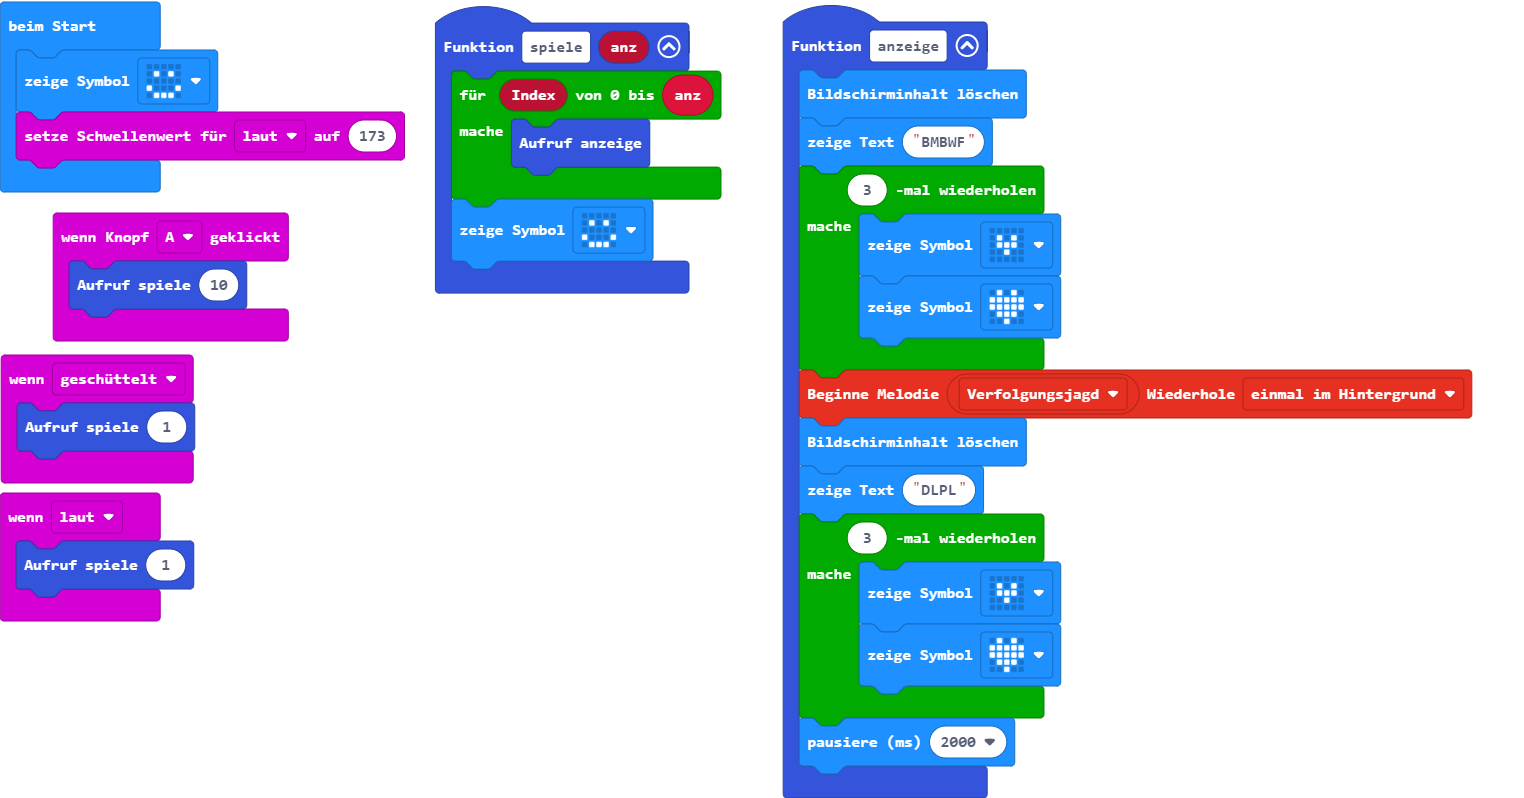
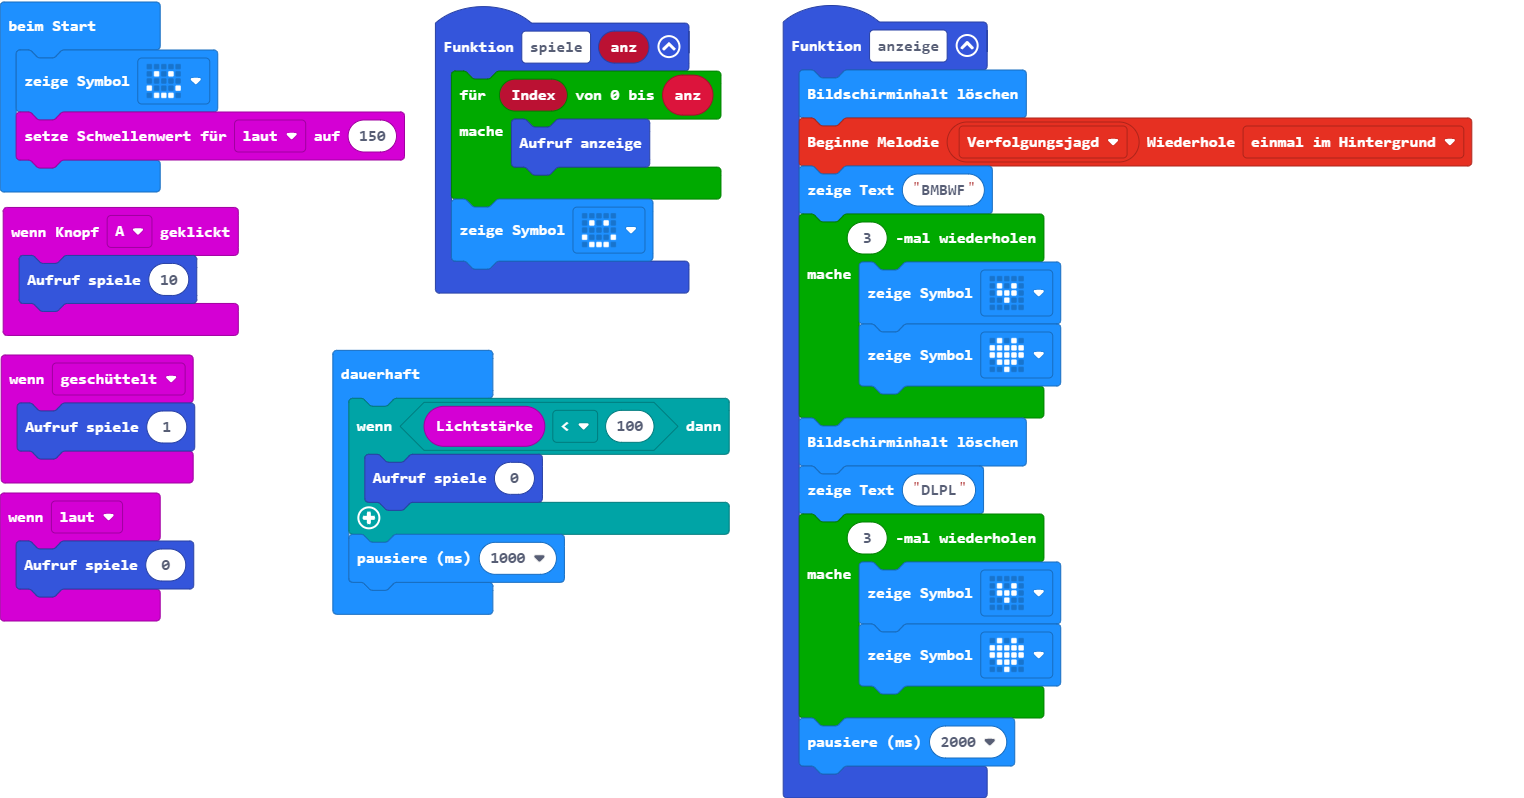
Aktualisiere main.blocks, main.ts

Changed region(s): [[0.5243, 0.1203, 0.9869, 0.5414], [0.2159, 0.4211, 0.4934, 0.782], [0.0, 0.2406, 0.2159, 0.4511]]

diff --git a/main.ts b/main.ts
@@ -5,7 +5,7 @@ function spiele (anz: number) {
     basic.showIcon(IconNames.Happy)
 }
 input.onSound(DetectedSound.Loud, function () {
-    spiele(1)
+    spiele(0)
 })
 input.onButtonPressed(Button.A, function () {
     spiele(10)
@@ -15,12 +15,12 @@ input.onGesture(Gesture.Shake, function () {
 })
 function anzeige () {
     basic.clearScreen()
+    music.startMelody(music.builtInMelody(Melodies.Chase), MelodyOptions.OnceInBackground)
     basic.showString("BMBWF")
     for (let index = 0; index < 3; index++) {
         basic.showIcon(IconNames.SmallHeart)
         basic.showIcon(IconNames.Heart)
     }
-    music.startMelody(music.builtInMelody(Melodies.Chase), MelodyOptions.OnceInBackground)
     basic.clearScreen()
     basic.showString("DLPL")
     for (let index = 0; index < 3; index++) {
@@ -30,4 +30,10 @@ function anzeige () {
     basic.pause(2000)
 }
 basic.showIcon(IconNames.Happy)
-input.setSoundThreshold(SoundThreshold.Loud, 173)
+input.setSoundThreshold(SoundThreshold.Loud, 150)
+basic.forever(function () {
+    if (input.lightLevel() < 100) {
+        spiele(0)
+    }
+    basic.pause(1000)
+})
